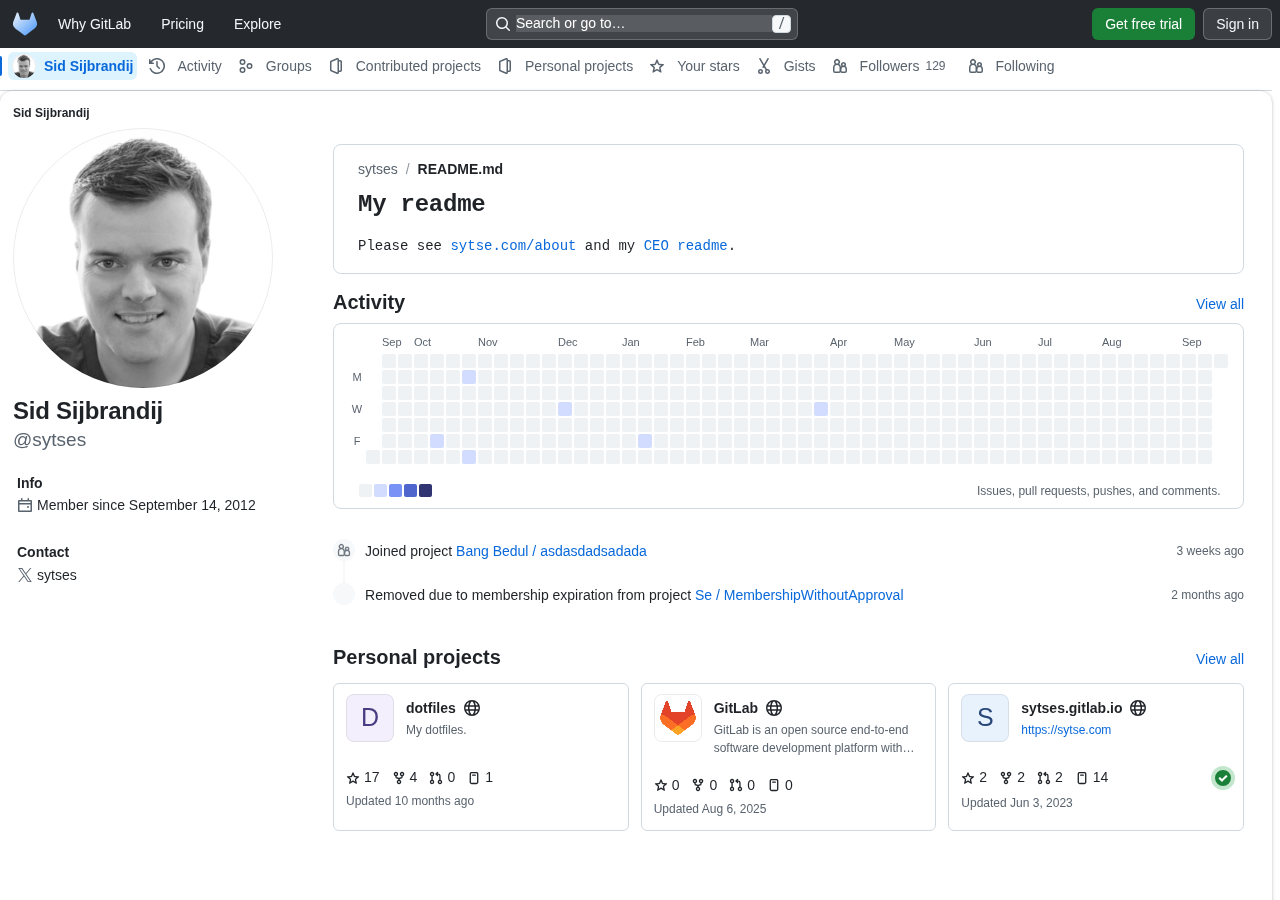
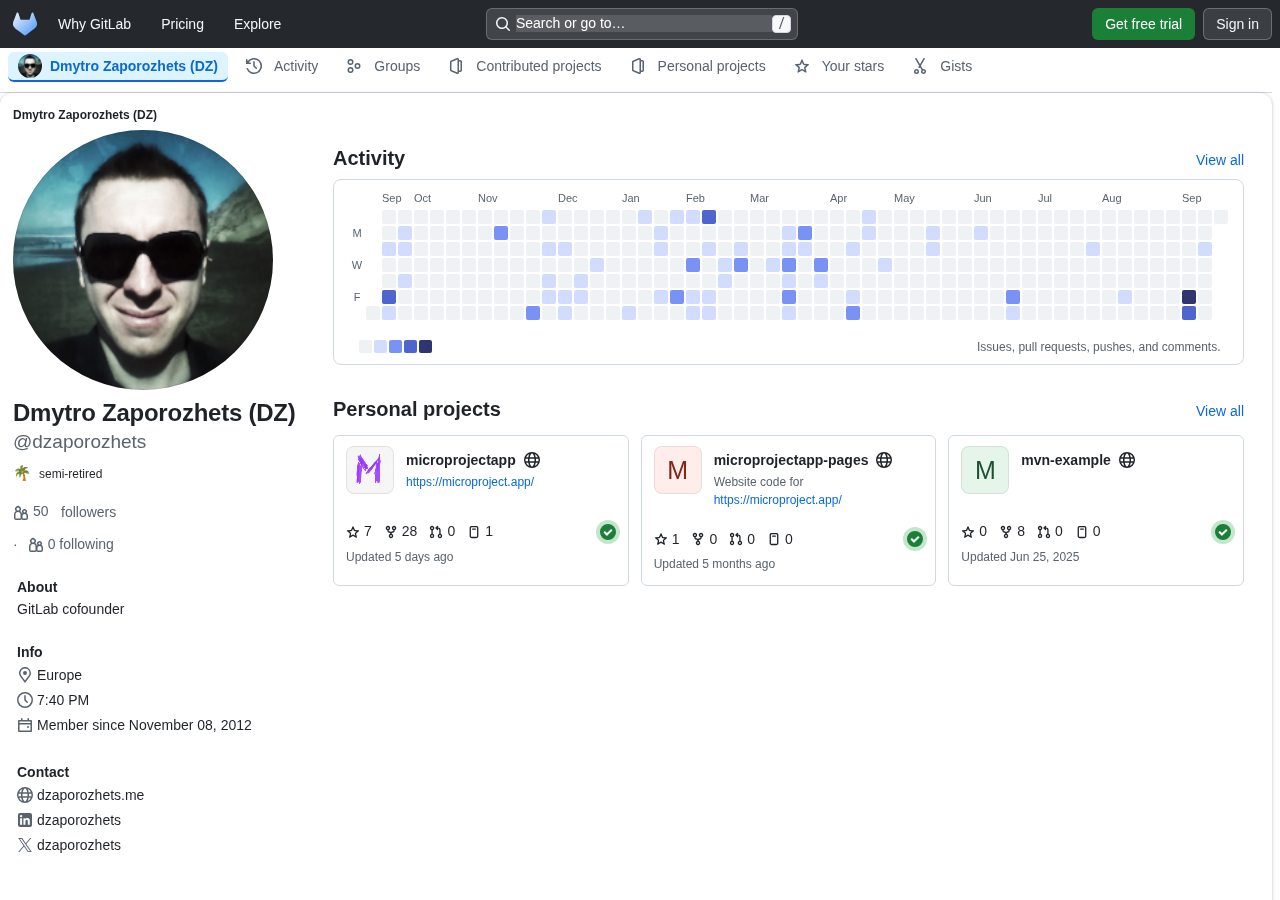
test(ux): cover the GitLab profile counts in the GitHub card
The GitLab profile demo capture now uses a profile with bio, location and contact links set, so the GitHub-skinned card shows more than the name. e2e asserts the follower/following counts are copied under the photo and removed from the navigation; the capture tool retries a flaky navigation.

diff --git a/docs/index.html b/docs/index.html
@@ -191,7 +191,9 @@
           Left: GitLab as it ships — a vertical <b class="gitlab">super-sidebar</b>
           starting at the person's name. Right: the same page skinned as GitHub —
           a flat <b class="github">row of tabs</b>, with the identity in a left
-          <b class="github">card</b> under a large avatar.
+          <b class="github">card</b> under a large avatar — the
+          follower/following counts and location brought down from the
+          navigation.
         </p>
         <div class="swipe">
           <img class="base" src="gitlab-profile-default.png" alt="GitLab profile page, default" />

diff --git a/docs/PROFILE-PAGE-UX.md b/docs/PROFILE-PAGE-UX.md
@@ -24,7 +24,7 @@ different set of destinations. This file is the map of both.
 
 That is not a summary of the products; it is what the two live pages render
 today, checked against [`github.com/torvalds`](https://github.com/torvalds) and
-[`gitlab.com/sytses`](https://gitlab.com/sytses).
+[`gitlab.com/dzaporozhets`](https://gitlab.com/dzaporozhets).
 
 ## Where the UX diverges
 
@@ -105,6 +105,7 @@ apply:
 | Reference marker | `#42` | `!42` | `refMarker` |
 | Shortcuts | GitHub's `g`-combos replay | GitLab's, delivered as clicks | `SHORTCUTS`, `SHORTCUT_TARGETS` |
 | Orientation | horizontal tab row | vertical sidebar group | `themes/ux-nav.css` |
+| Follower/following counts | under the photo | in the navigation | `content/ux.js` — GitLab's are copied into the card |
 
 Two scoping facts make the profile behave differently from the project page:
 
@@ -152,6 +153,9 @@ hosts issue different usernames, so there is no path to map between them.
   into the content as GitLab's header, but GitHub's card keeps its
   followers/achievements/block content flowing down the content column; GitLab's
   separate Info/Contact rail and the name-first landing item are not recreated.
+- **GitLab publishes no organisation on a profile.** Its "Info" block carries
+  location, local time and member-since — but no company — so a GitHub-skinned
+  GitLab profile cannot show the organisation line GitHub's card has.
 - **Sponsors and Marketplace stay GitHub-only.** They are marked `≠ GitLab`, not
   recreated.
 

diff --git a/CHANGELOG.md b/CHANGELOG.md
@@ -16,6 +16,11 @@ adheres to [Semantic Versioning](https://semver.org/spec/v2.0.0.html).
   row of tabs, dropping GitLab's "Profile" heading and Help menu, and the
   identity moves into a left card under a large avatar beside the README and
   activity (`themes/ux-nav.css`).
+- The follower/following counts on a GitLab profile shown as GitHub are copied
+  out of the navigation into the profile card under the photo, where GitHub
+  shows them, with the navigation copies hidden (`content/ux.js`,
+  `themes/ux-nav.css`). GitLab publishes no organisation on a profile, so that
+  line stays absent.
 - The GitHub Pages preview (`docs/index.html`) gains GitLab and GitHub
   profile-page swipes beside the project-page ones, captured with
   `npm run screenshots:profiles` (`tools/profile-screenshots.mjs`).

diff --git a/docs/UX-PARITY.md b/docs/UX-PARITY.md
@@ -154,7 +154,9 @@ horizontal strip as usual, and because a profile's sidebar is a single flat
 group it is flattened to one row of tabs: the "Profile" heading and the Help
 menu are hidden. The GitLab profile is also re-shaped into GitHub's card: the
 identity (avatar over the name) and the Info/Contact rail move into a left
-column, with the README/activity beside them.
+column, with the README/activity beside them, and the follower/following counts
+are copied out of the navigation to sit under the photo. (GitLab publishes no
+organisation on a profile, so that line cannot be shown.)
 
 ## References
 
